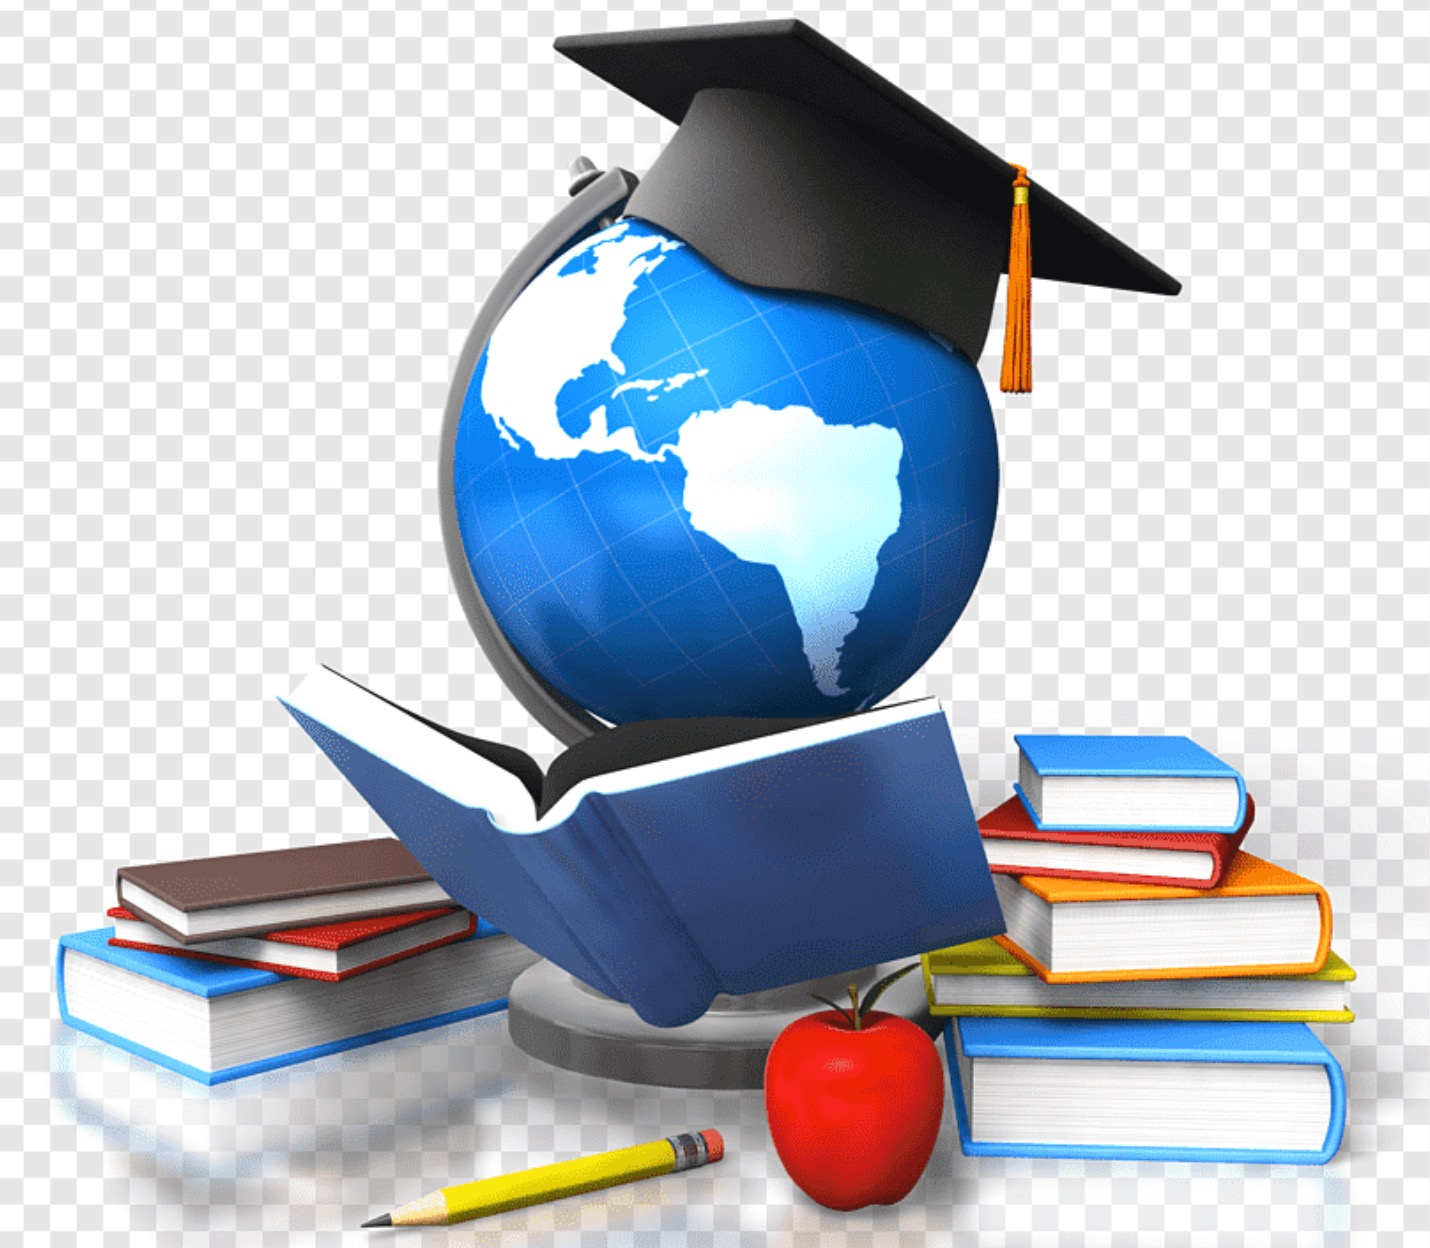
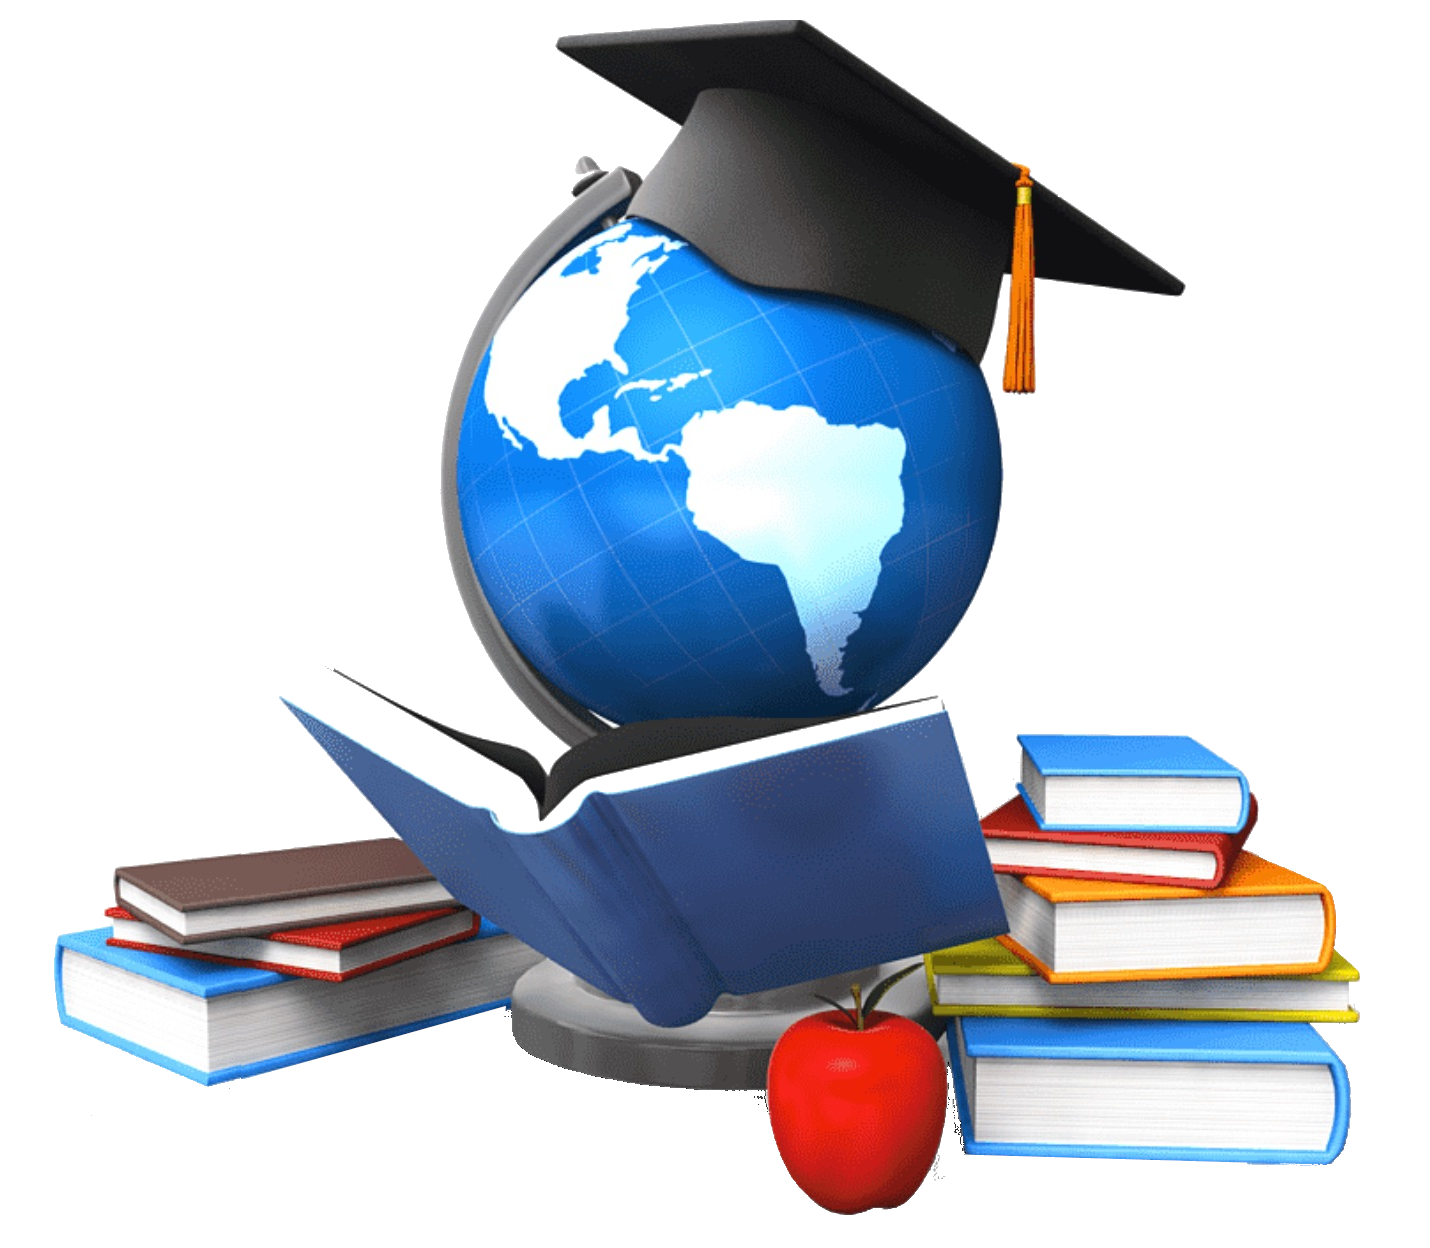
space text on home page, replace eduation image

diff --git a/src/components/Home/home.module.css b/src/components/Home/home.module.css
@@ -16,15 +16,17 @@ main{
     animation: renderFromLeft 1s ease forwards;
 }
 .personal-info{
-    height: 10rem;
+    height: -40rem;
     display: flex;
     flex-direction: column;
     justify-content: space-evenly;
 }
+
 .homeContent h1{
     text-align: left;
     font-size: 2rem;
-    font-weight: 600;
+    font-weight: 600;  
+    margin-top: -70px;
 }
 .homeContent h2{
     font-weight: 600;
@@ -40,18 +42,22 @@ main{
     font-weight: 600;
 }
 .links{
-    margin-top: 1rem;
+    margin-top: 5rem;
+    margin-left: -10px;
     display: flex;
     justify-content: space-around;
     align-items: center;
     width: 50%;
 }
+
 .autoText{
     font-size: 2rem;
     font-weight: 600;
+    margin-bottom: 24px;
+    margin-top: 60px;
 }
 .avatarImage{
-    margin-top: 20rem;
+    margin-top: 15rem;
     margin-bottom: 20rem;
     display: flex;
     align-items: center;
@@ -59,7 +65,6 @@ main{
     animation: renderFromRight 1s ease forwards;
 }
 .avatarImage img {
-    margin-top: 0rem;
     border: solid 5px;
     border-radius: 5%;
     height: 23rem;
@@ -68,6 +73,7 @@ main{
 }
 
 .connectText{
+    margin-top: 20rem;
     margin-top: 2rem;
     font-size: 1.5rem;
     font-weight: 700;
